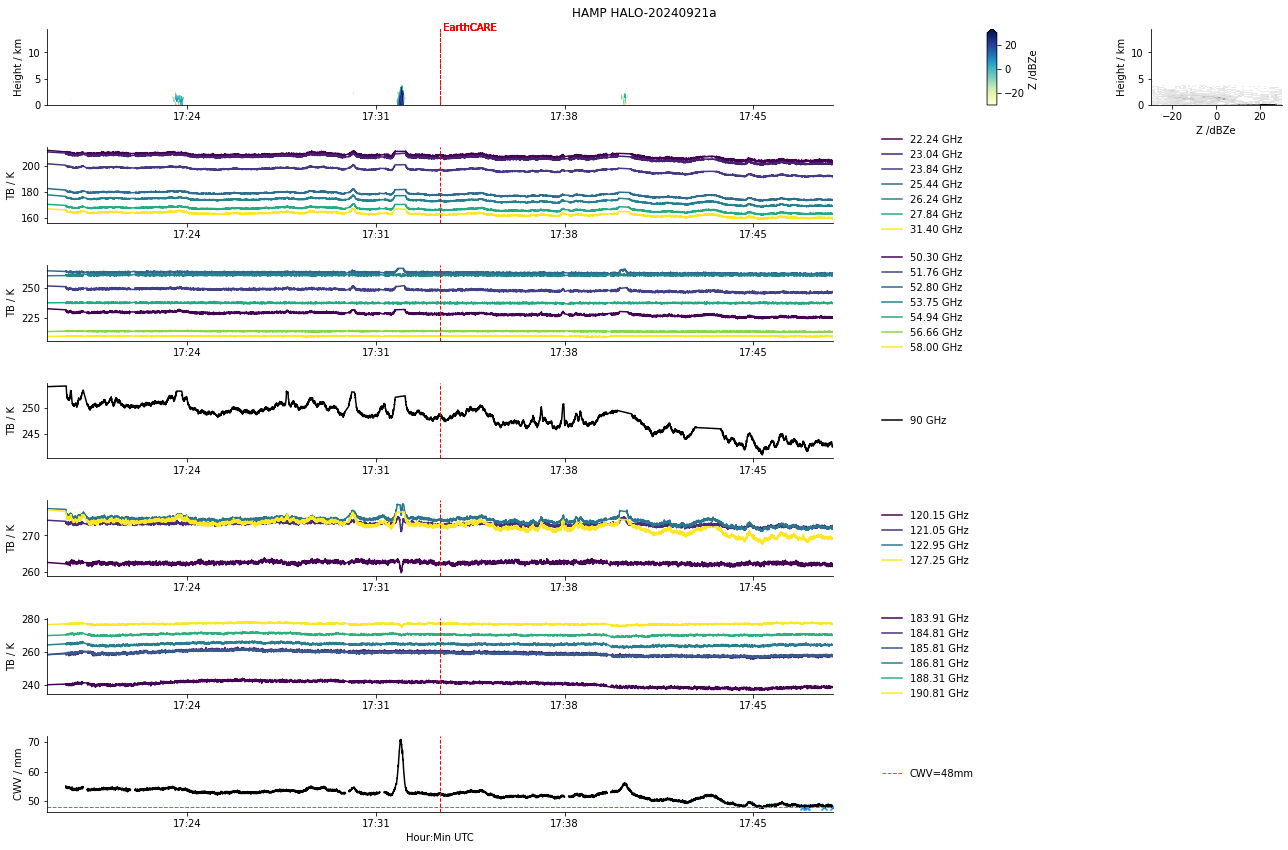
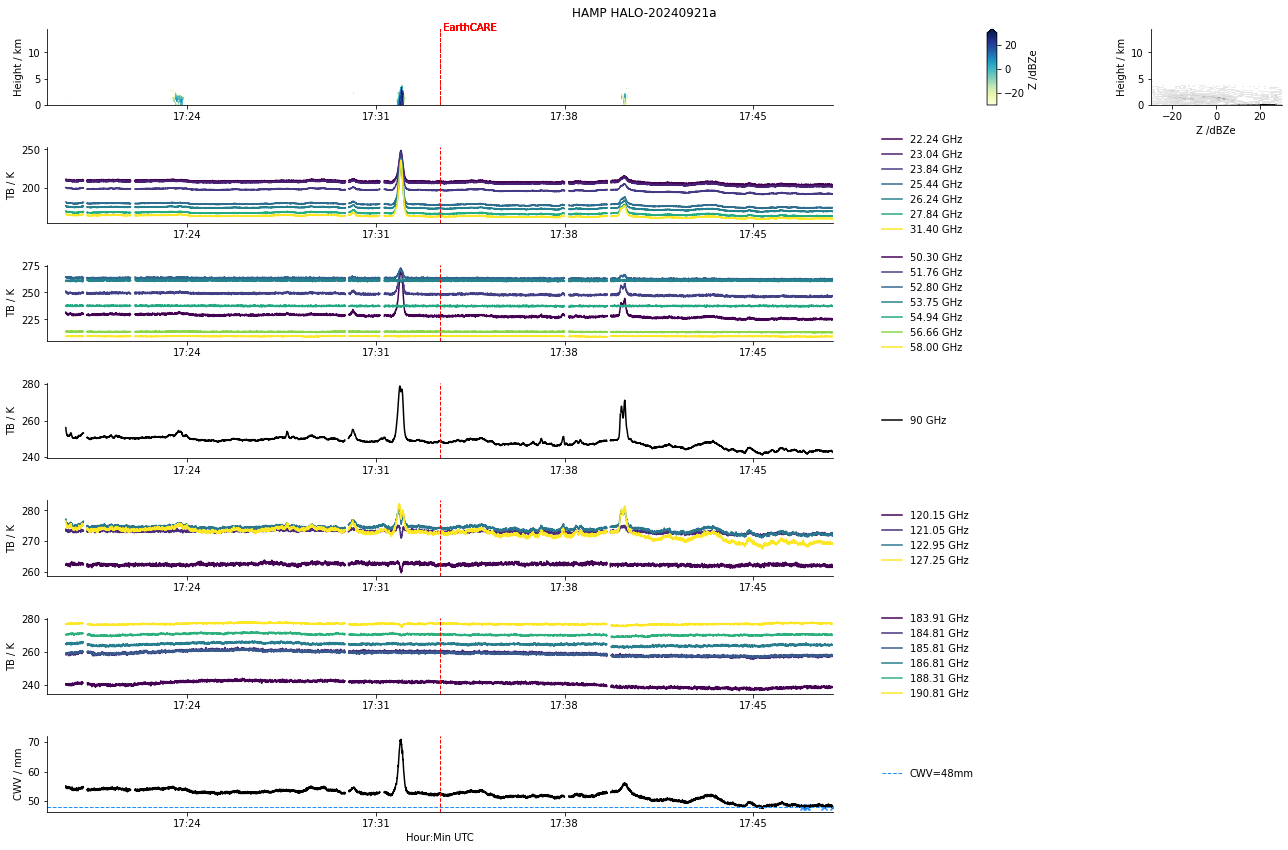
feat: add ql for 0924, 0928 and correct ql for 0921

diff --git a/orcestra_book/reports/HALO-20240924a.md b/orcestra_book/reports/HALO-20240924a.md
@@ -196,6 +196,21 @@ BACARDI
 ```
 
 ```{card}
+:img-top: ../figures/HALO-20240924a/hamp_fullflight_HALO-20240924a.png
+HAMP 
+```
+
+```{card}
+:img-top: ../figures/HALO-20240924a/hamp_ec_under_HALO-20240924a.png
+HAMP during EarthCARE underpass
+```
+
+```{card}
+:img-top: ../figures/HALO-20240924a/hamp_radar_ec_under_HALO-20240924a.png
+Radar during EarthCARE underpass
+```
+
+```{card}
 :img-top: ../figures/HALO-20240924a/HALO_20240924a_KT19_QL.png
 KT19 Timeseries of brigthness temperature.
 ```
